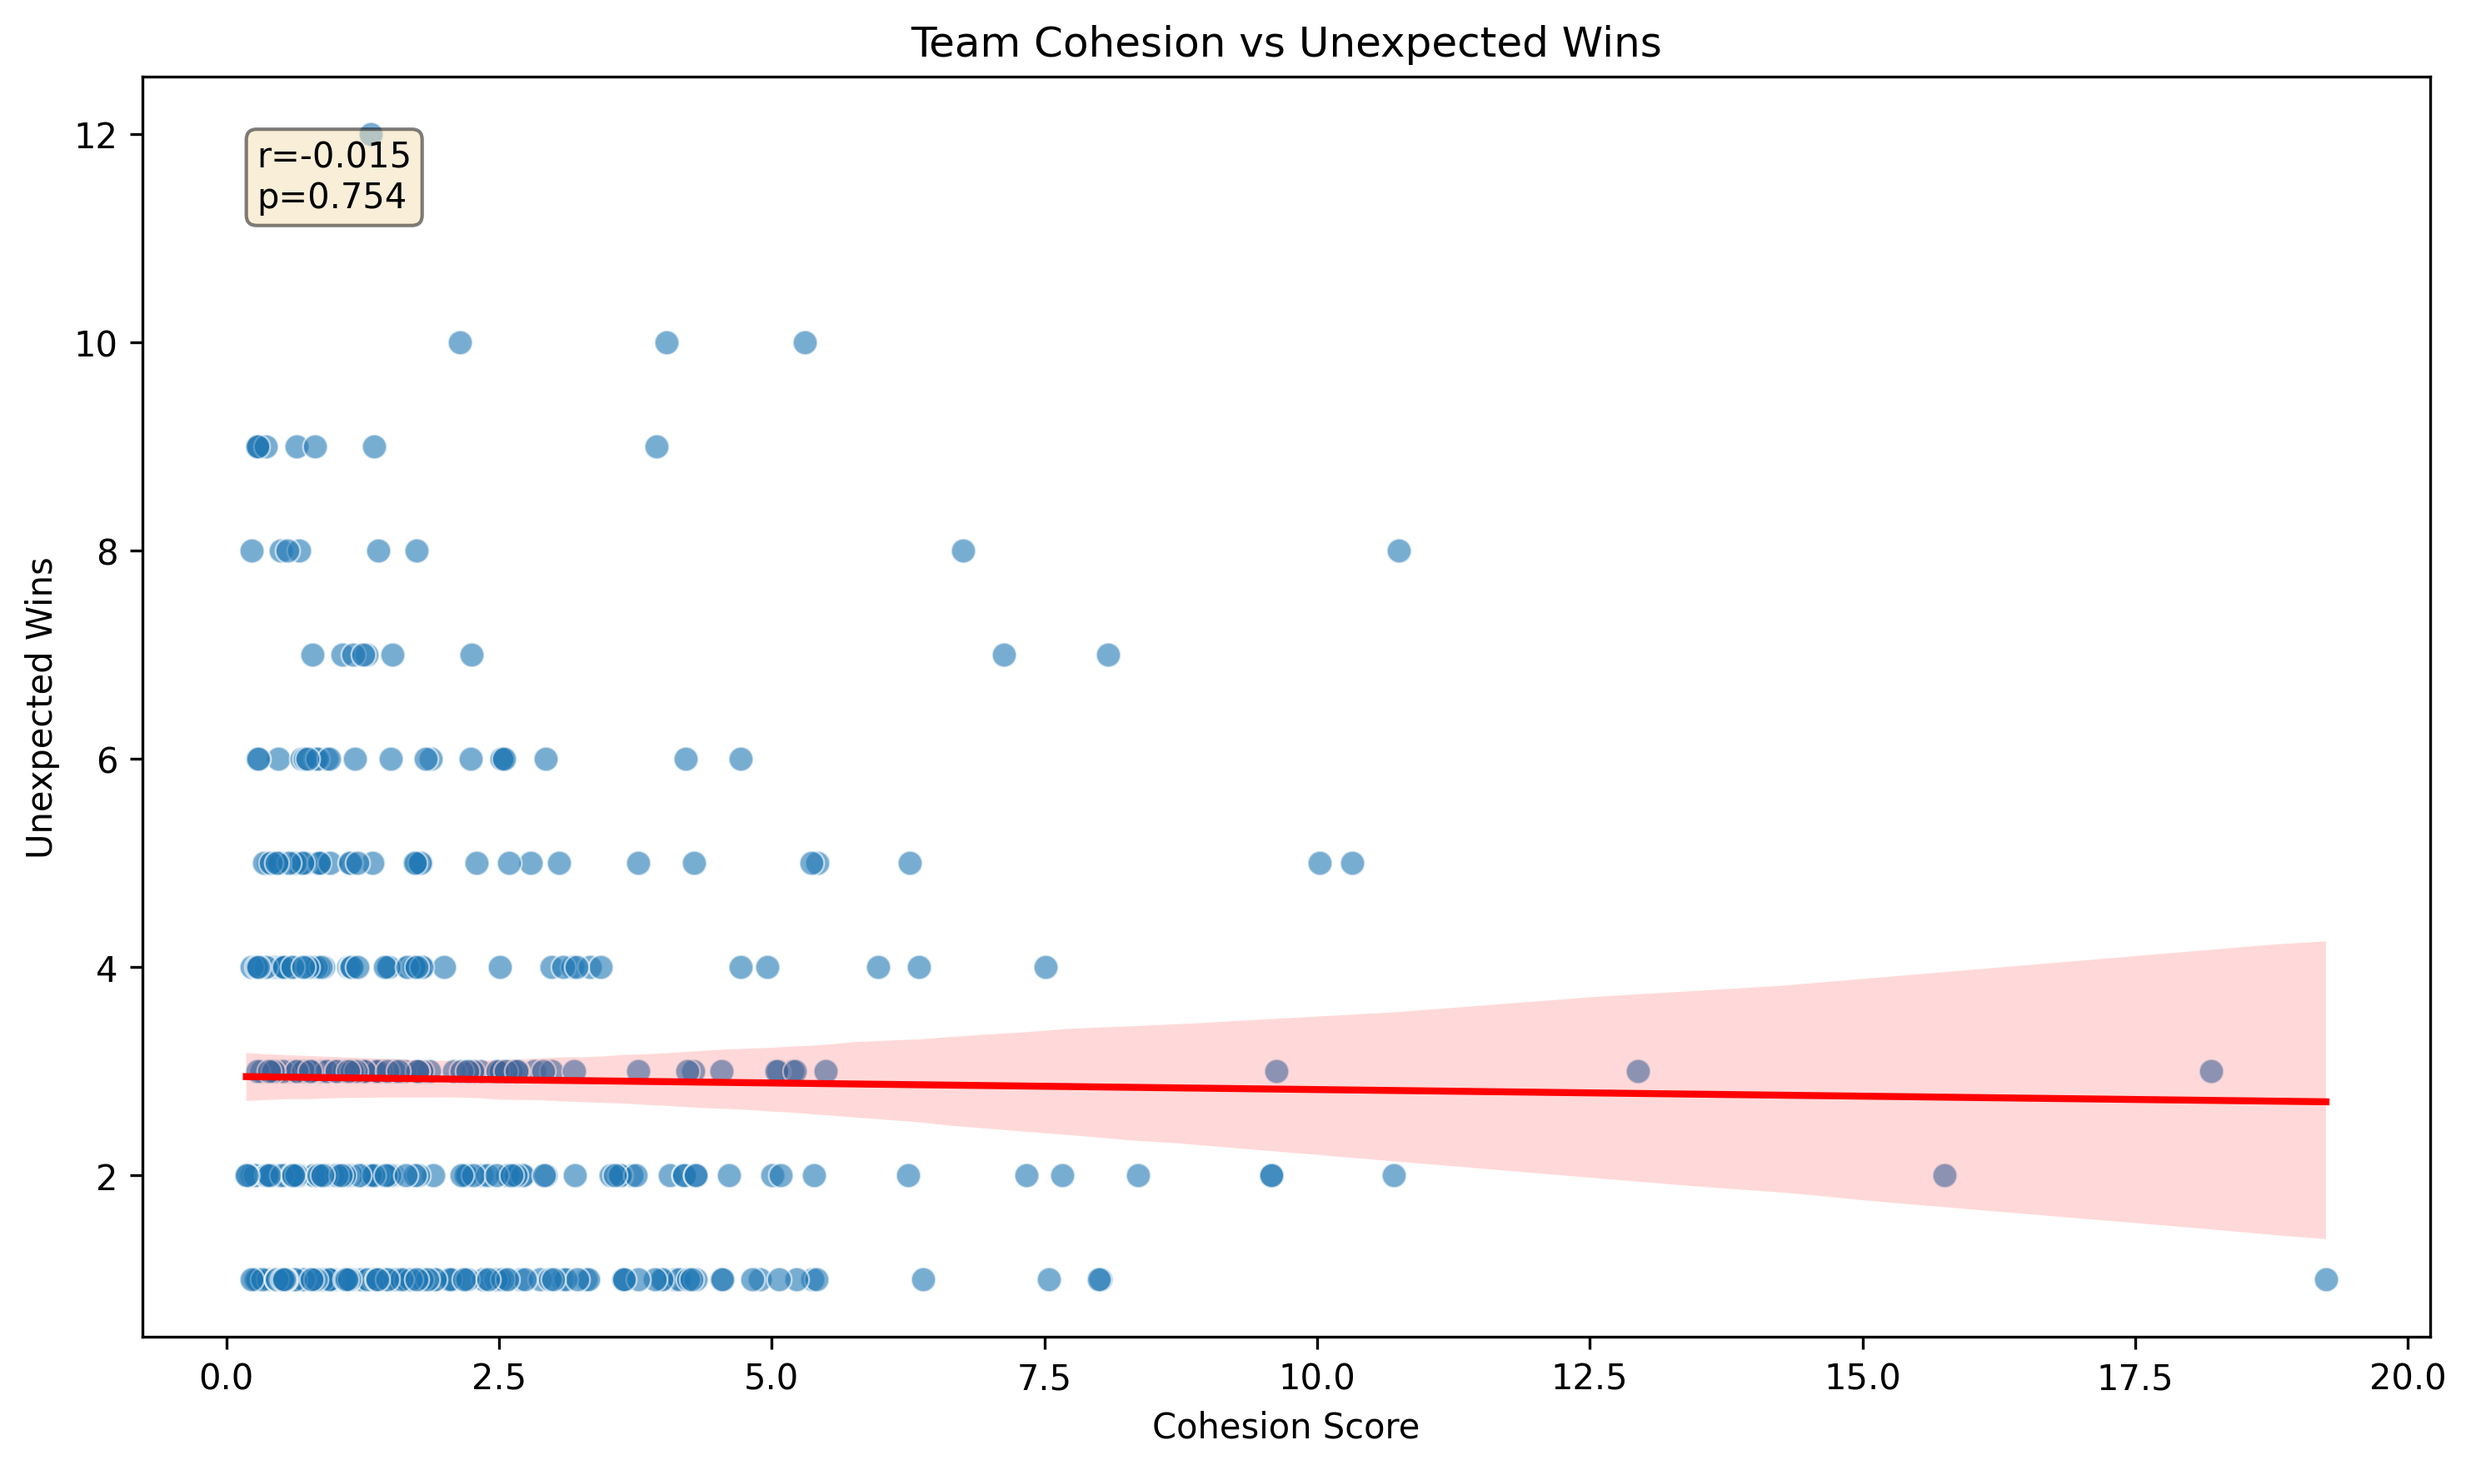
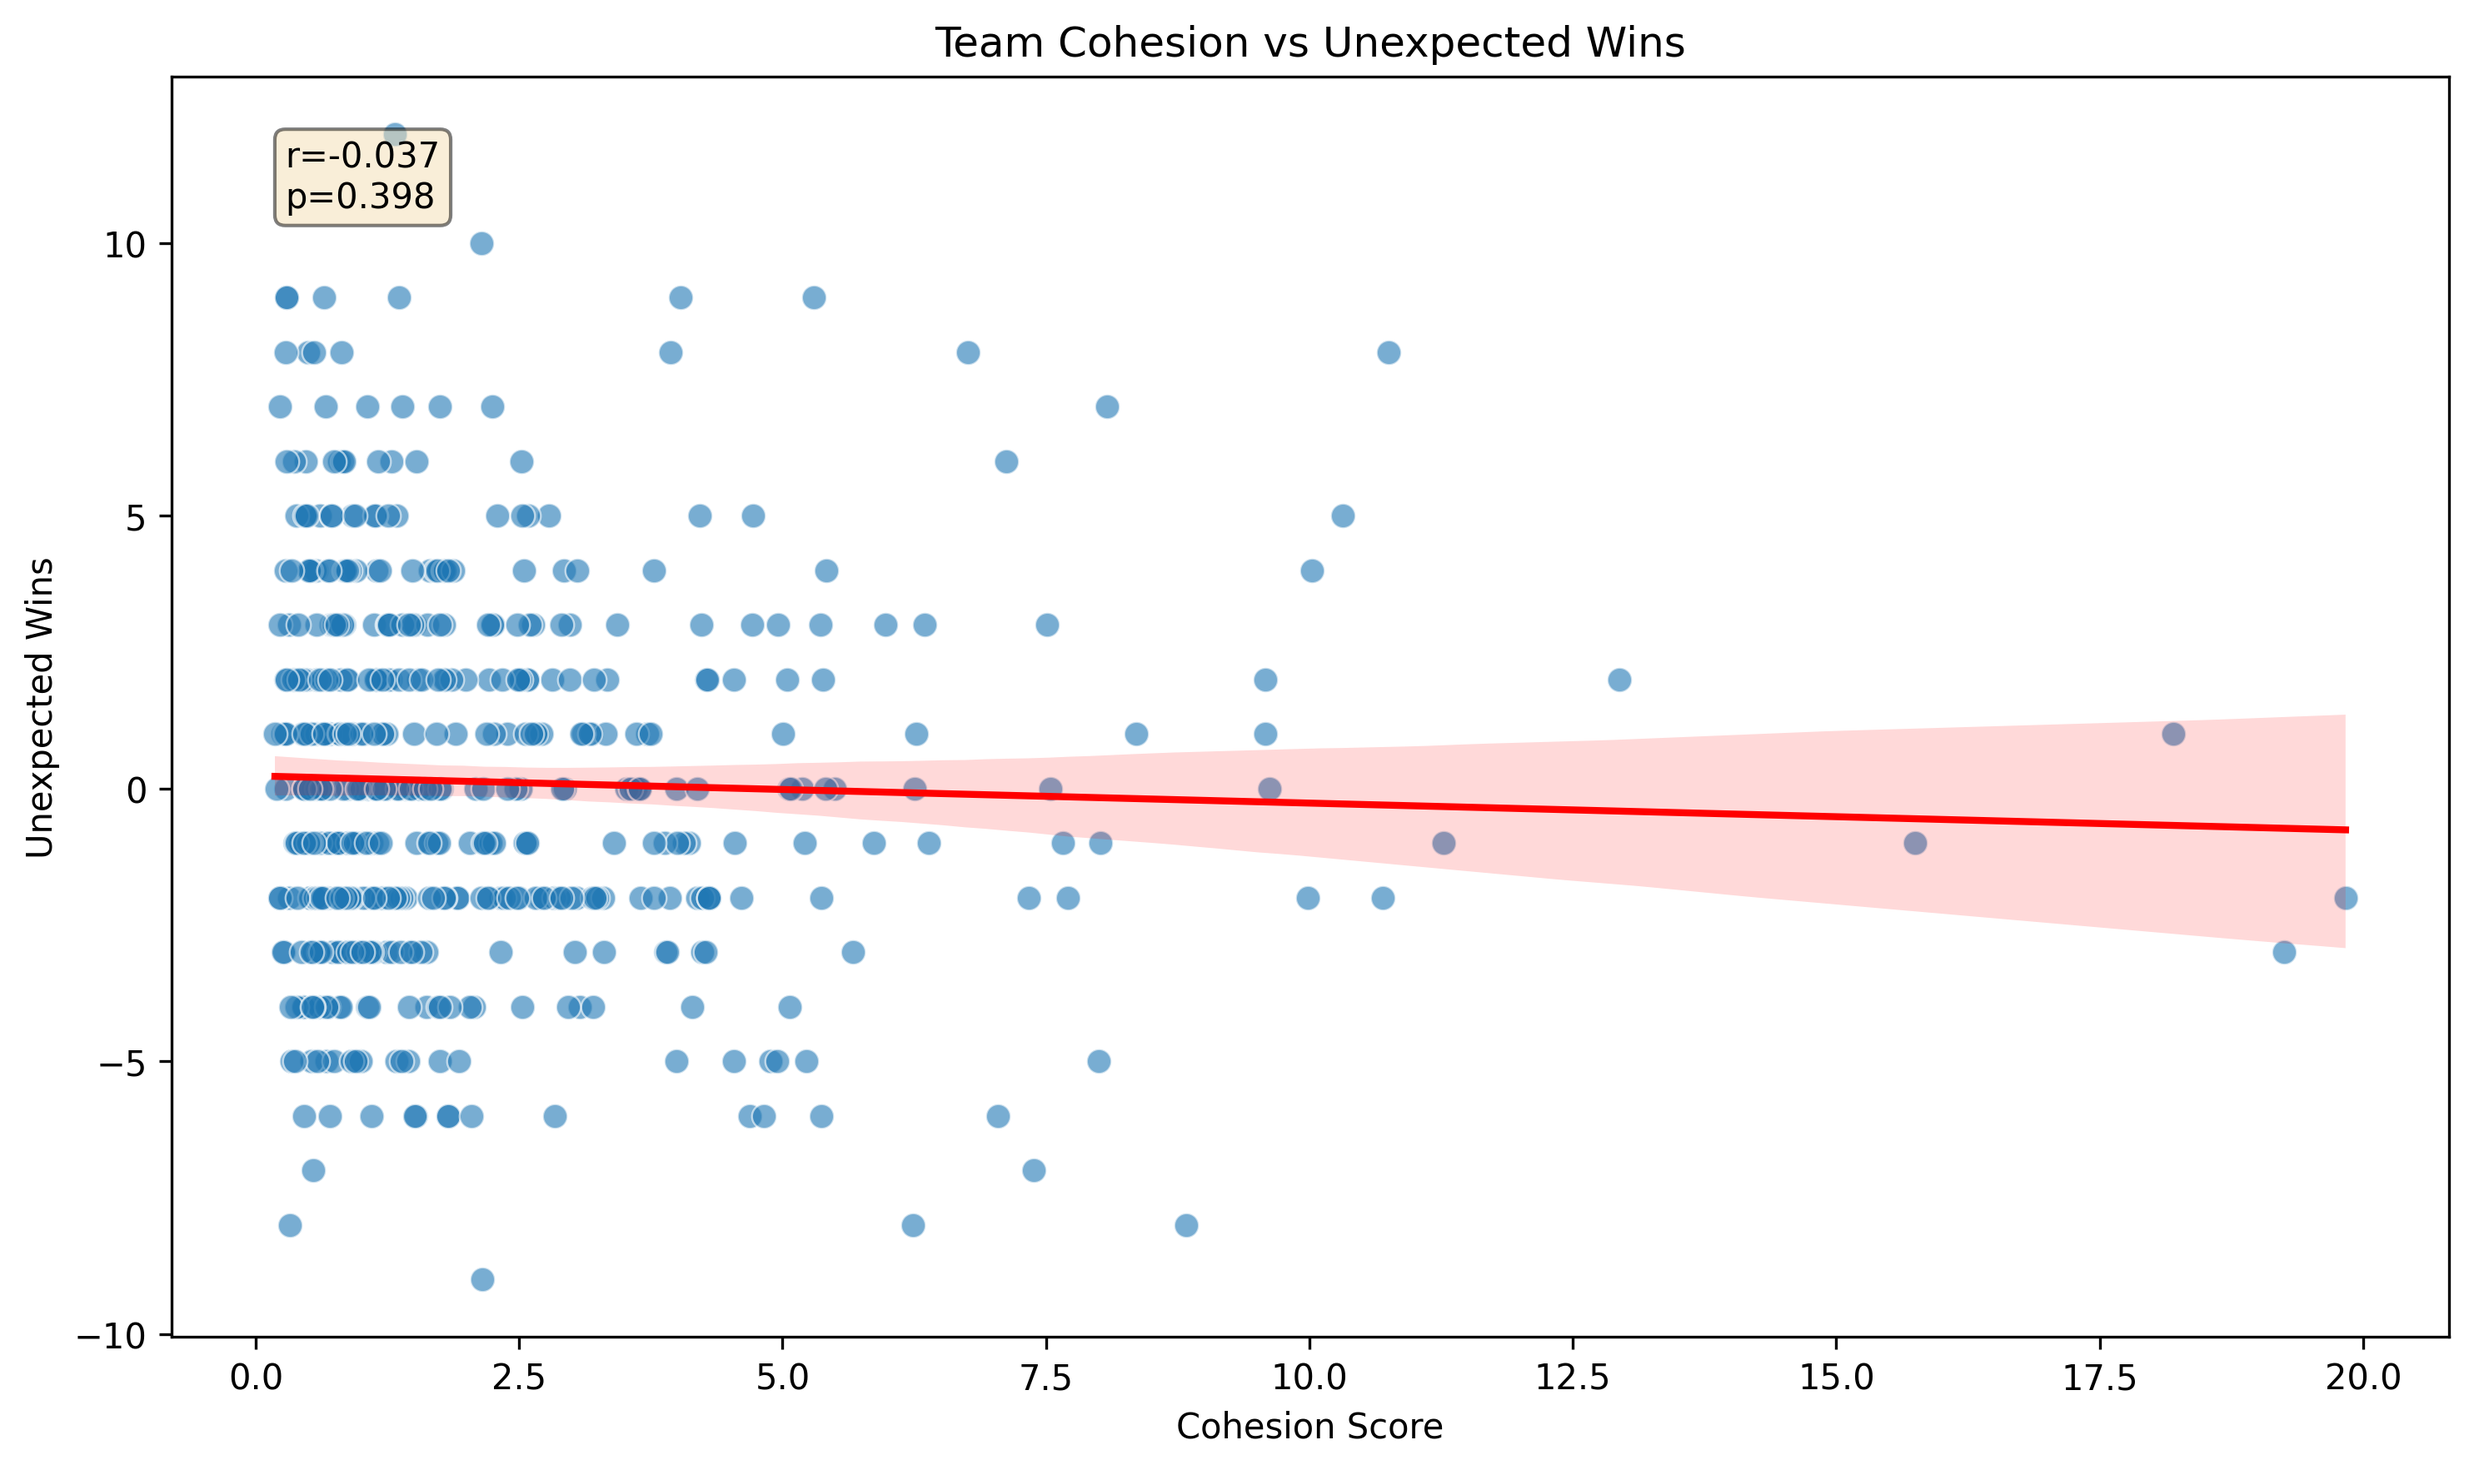
Updated query structure

diff --git a/main.py b/main.py
@@ -207,40 +207,52 @@ async def get_coach_details(coach_name: str):
 @app.get("/api/paths/shortest")
 async def find_shortest_path(coach1: str, coach2: str):
     """
-    Find the shortest path between two coaches (like "degrees of separation")
-    """
-    logger.info(f"🔍 Received request: coach1='{coach1}', coach2='{coach2}'")
+    Find the shortest path between two coaches
     
+    Query Parameters:
+        - coach1 (str, required): Starting coach name
+        - coach2 (str, required): Ending coach name
+        - max_depth (int, optional): Maximum hops to search (default: 5)
+    
+    Returns:
+        {
+            "path": [
+                {"name": "Coach A"},
+                {"name": "Coach B"},
+                {"name": "Coach C"}
+            ],
+            "length": 3,
+            "connections": [
+                {
+                    "from": "Coach A",
+                    "to": "Coach B",
+                    "description": "Worked together at Team X"
+                }
+            ]
+        }
+    """
     if not coach1 or not coach2 or coach1.strip() == "" or coach2.strip() == "":
-        logger.warning("❌ Empty coach names")
         return JSONResponse(
             status_code=400,
             content={"error": "Both coach1 and coach2 are required"}
         )
     
     if coach1.lower() == coach2.lower():
-        logger.warning("❌ Same coach names")
         return JSONResponse(
             status_code=400,
             content={"error": "coach1 and coach2 must be different"}
         )
     
-    logger.info(f"📞 Calling app_queries.find_shortest_path()")
     try:
         path = app_queries.find_shortest_path(coach1, coach2)
-        logger.info(f"✅ Got result: {path}")
-        
         if not path:
-            logger.warning(f"❌ No path found")
             return JSONResponse(
                 status_code=404,
                 content={"error": f"No path found between '{coach1}' and '{coach2}' within 5 hops"}
             )
         return path
     except Exception as e:
-        logger.error(f"❌ Shortest path error: {e}")
-        import traceback
-        logger.error(traceback.format_exc())
+        logger.error(f"Shortest path error: {e}")
         return JSONResponse(
             status_code=500,
             content={"error": "Pathfinding failed"}
@@ -248,7 +260,7 @@ async def find_shortest_path(coach1: str, coach2: str):
 
 
 @app.get("/api/paths/all")
-async def find_all_paths(coach1: str, coach2: str, max_depth: int = 4, limit: int = 5):
+async def find_all_paths(coach1: str, coach2: str, limit: int = 5):
     """
     Find multiple paths between two coaches
     
@@ -282,10 +294,10 @@ async def find_all_paths(coach1: str, coach2: str, max_depth: int = 4, limit: in
             content={"error": "coach1 and coach2 must be different"}
         )
     
-    if max_depth < 1:
-        max_depth = 4
-    if limit < 1 or limit > 20:
-        limit = 5
+    # if max_depth < 1:
+    #     max_depth = 4
+    # if limit < 1 or limit > 20:
+    #     limit = 5
     
     try:
         paths = app_queries.find_all_paths(coach1, coach2, max_depth, limit)

diff --git a/neo4j_queries.py b/neo4j_queries.py
@@ -91,12 +91,12 @@ class CoachNetworkQueries:
             row = result.single()
             return row["path_data"] if row else None
     
-    def find_all_paths(self, coach1: str, coach2: str, max_depth: int = 4, limit: int = 5) -> List[Dict]:
+    def find_all_paths(self, coach1: str, coach2: str, limit: int = 10) -> List[Dict]:
         """Find multiple connection paths between coaches"""
         with self.driver.session() as session:
-            result = session.run(
-                """
-                MATCH path = (start:Coach {name: $coach1})-[:CONNECTED_TO*1..$max_depth]-(end:Coach {name: $coach2})
+            result = session.run( ###Replace X with a number, find a way to convert this into difficulty (avg length? number of paths doesn't work, too many paths)
+                """ 
+                MATCH path = SHORTEST X (start:Coach {name: $coach1})-[:CONNECTED_TO*1..10]-(end:Coach {name: $coach2})
                 WITH nodes(path) as nodes, relationships(path) as rels, length(path) as path_length
                 RETURN {
                     length: path_length,
@@ -114,7 +114,6 @@ class CoachNetworkQueries:
                 """,
                 coach1=coach1,
                 coach2=coach2,
-                max_depth=max_depth,
                 limit=limit
             )
             return [row["path_data"] for row in result]

diff --git a/TalentResultComparison.py b/TalentResultComparison.py
@@ -77,16 +77,12 @@ def full_data_analysis(start_year, end_year_noninc):
             if pd.notna(row["UnexpectedResult"]):
                 homeTeam = row['HomeTeam']
                 awayTeam = row['AwayTeam']
-                if row["UnexpectedResult"] == 0:
-                    try:
-                        unexpectedWins[homeTeam] += 1
-                    except KeyError:
-                        unexpectedWins[homeTeam] = 1 
-                else: 
-                    try:
-                        unexpectedWins[awayTeam] += 1
-                    except KeyError:
-                        unexpectedWins[awayTeam] = 1 
+                if row["UnexpectedResult"] == 0: # Home team won
+                    unexpectedWins[homeTeam] = unexpectedWins.get(homeTeam, 0) + 1
+                    unexpectedWins[awayTeam] = unexpectedWins.get(awayTeam, 0) - 1
+                else: # Away team won
+                    unexpectedWins[awayTeam] = unexpectedWins.get(awayTeam, 0) + 1
+                    unexpectedWins[homeTeam] = unexpectedWins.get(homeTeam, 0) - 1 
         # Build scatter plot data
         for team in unexpectedWins.keys():
             team_cohesion_row = cohesion_stats[cohesion_stats['Team'] == team]
